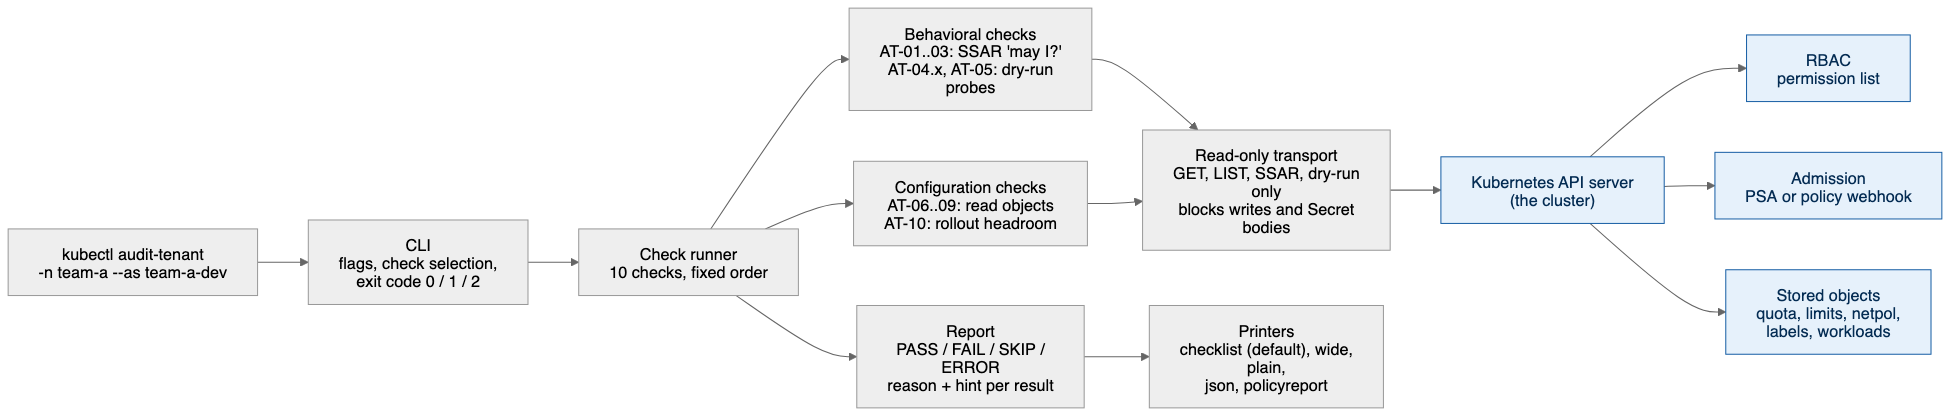
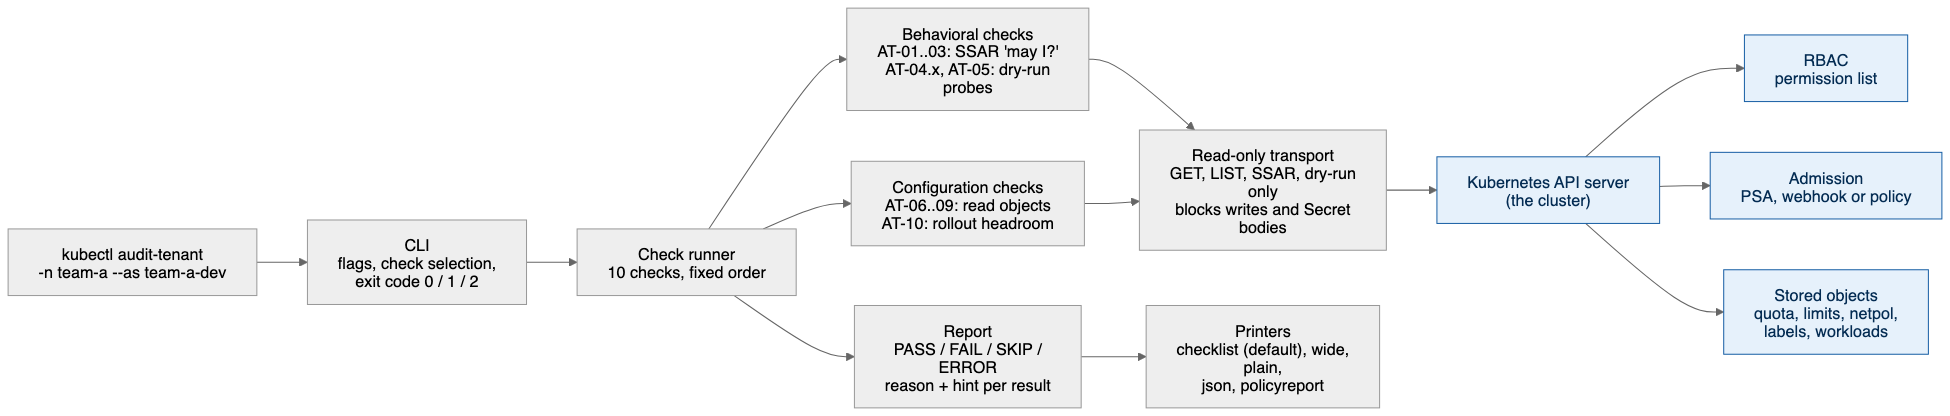
docs: changelog, diagram and glossary for v0.1.0 (B30)
CHANGELOG.md gets the v0.1.0 entry (its date is set at the tag). The
architecture diagram is re-rendered from its .mmd with gstack /diagram,
so the admission box reads "PSA, webhook or policy". The glossary's
deciding layer names the policy and quota gates. CITATION.cff already
held the paper DOI and passes the CFF 1.2.0 JSON Schema.

diff --git a/CHANGELOG.md b/CHANGELOG.md
@@ -1,0 +1,26 @@
+# Changelog
+
+All notable changes to this project are listed here. The format follows [Keep a Changelog](https://keepachangelog.com/en/1.1.0/), and the project uses [Semantic Versioning](https://semver.org/spec/v2.0.0.html).
+
+## [0.1.0] - Unreleased
+
+The first release.
+
+### Added
+
+- Ten tenant-governance checks that run as the tenant against one namespace and give fourteen results:
+  - AT-01 to AT-03: cluster-scoped access, Secret access in another namespace, and privilege escalation, asked with SelfSubjectAccessReviews.
+  - AT-04.1 to AT-04.5 and AT-05: privileged containers, hostPath volumes, hostPID, hostNetwork, privilege escalation and NodePort Services, sent as server-side dry runs after a compliant control probe.
+  - AT-06 to AT-09: a complete ResourceQuota, LimitRange defaults, default-deny NetworkPolicies and the Pod Security Admission label.
+  - AT-10: whether the quota covers the rollout peak of the Deployments and StatefulSets.
+- Self mode (the kubeconfig's identity) and impersonation (`--as`, `--as-group`), with warnings for impersonation flags that leave out groups.
+- Four verdicts (PASS, FAIL, SKIP, ERROR). Each result has the deciding layer, the MTB ID, a reason and a hint, and a note when part of the check was not tested.
+- Exit codes 0, 1 and 2, and `--fail-on-skip` for pipelines.
+- Output formats: checklist (default), `-o wide`, `--plain`, `-o json` with a JSON Schema (`docs/report.schema.json`), and `-o policyreport` (`wgpolicyk8s.io/v1alpha2`).
+- `--debug`: one line per API request and the identity steps on stderr, without request headers.
+- `--checks`, `--skip`, `--other-namespace` and `--timeout`.
+- The `list-checks` and `version` subcommands.
+- A read-only HTTP transport with an exact allowlist: the tool never writes to the cluster and never reads a Secret.
+- Binaries for Linux and macOS (amd64 and arm64) and Windows (amd64), with checksums and a krew manifest.
+
+[0.1.0]: https://github.com/BodhiSatvik/kubectl-audit-tenant/releases/tag/v0.1.0

diff --git a/_archive/TODOS-done.md b/_archive/TODOS-done.md
@@ -253,3 +253,11 @@ Checked against the code on `phase-6-docs` (from `1778b02`). One more item was m
 - [x] P1 /ship: `hack/check-public.sh` passes when `git ls-files` fails (not a checkout); make it fail closed (B29). Done in B29 (9152f69): the tree scan writes the file list first, so `set -e` stops outside a checkout; the self-test covers it.
 - [x] P2 /review: Pods a controller creates can pass under a PSA exemption that the tenant's own probes do not have; the README's "what a PASS does not prove" must say so (B29). Done in B29: "What a PASS does not prove" names it.
 - [x] P2 /review: The no-rights anchor (D80) passes for a misspelled `--as` user when a cluster grants `list pods` to `system:authenticated` (B25 identity warnings, D87). D141 warns for a user impersonated without `--as-group`; a misspelled service account, or a user with `--as-group`, gets no warning, so the README must say it (B29). Done in B29: "What a PASS does not prove" names it and tells the reader to check the header line.
+
+### Phase 6: docs and release
+
+- [x] **B30 Citation, changelog, diagrams.** `CITATION.cff` with the paper DOI; `CHANGELOG.md` v0.1.0 entry; re-render `docs/diagrams/architecture.{svg,png,excalidraw}` from the updated `.mmd` (admission label); GLOSSARY.md: deciding layer gains "policy".
+  - AC: CFF validates; SVG shows "PSA, webhook or policy".
+  - Verify: `cffconvert --validate` or GitHub's CFF check; visual check of the SVG.
+  - Depends on: none. Files: `CITATION.cff`, `CHANGELOG.md`, `docs/diagrams/*`, `GLOSSARY.md`.
+  - Done (2026-10-22): `CITATION.cff` passes the CFF 1.2.0 JSON Schema (0 errors); `CHANGELOG.md` has the v0.1.0 entry (date set at the tag); the diagram triplet is re-rendered with gstack `/diagram` and the SVG and PNG show "PSA, webhook or policy"; the GLOSSARY deciding layer names the policy and quota gates.

diff --git a/TODOS.md b/TODOS.md
@@ -13,10 +13,6 @@ Build list from the approved spec (`DESIGN.md`, approved after plan reviews 2026
   - Verify: fresh-machine run (Satvik or a clean VM); `make check-fast`.
   - Depends on: B21, B25. Files: `README.md`.
   - Status (2026-10-22): built on `phase-6-docs`. `hack/check-public.sh` and `make check-fast` pass. The quick start, run word for word on this Mac with a local build in place of the release, took 17 s (node image cached) and printed the verdicts the README shows. Open: the clean-machine run with a release install, after v0.1.0 exists (Satvik or a clean VM).
-- [ ] **B30 Citation, changelog, diagrams.** `CITATION.cff` with the paper DOI; `CHANGELOG.md` v0.1.0 entry; re-render `docs/diagrams/architecture.{svg,png,excalidraw}` from the updated `.mmd` (admission label); GLOSSARY.md: deciding layer gains "policy".
-  - AC: CFF validates; SVG shows "PSA, webhook or policy".
-  - Verify: `cffconvert --validate` or GitHub's CFF check; visual check of the SVG.
-  - Depends on: none. Files: `CITATION.cff`, `CHANGELOG.md`, `docs/diagrams/*`, `GLOSSARY.md`.
 - [ ] **B31 Pre-release gate (Satvik and agent).** `audit-tenant.dev` is registered (done 2026-10-11, D20); `../../scripts/clean-room-check.sh .` passes; CONSTRAINTS.md "Measured" values recorded; `make check-full` green on main; Satvik pushes and tags `v0.1.0`; release job publishes five archives, checksums and the krew manifest; Satvik opens the krew-index PR.
   - AC: acceptance criteria 1 to 11 in DESIGN.md section 12 all met; the release page shows the assets; `kubectl krew install --manifest-url` works from the release.
   - Verify: release workflow; manual install on macOS and Linux.

diff --git a/GLOSSARY.md b/GLOSSARY.md
@@ -83,7 +83,7 @@ The one-line advice attached to every FAIL, SKIP or ERROR that tells the reader 
 _Avoid_: Remediation, fix, suggestion
 
 **Deciding layer**:
-The part of the cluster that produced a verdict: RBAC (the permission list), admission (a gatekeeper such as Pod Security Admission or a policy engine), the API server's own validation (`--allow-privileged=false` refuses every privileged container), or configuration (an object the tool read).
+The part of the cluster that produced a verdict: RBAC (the permission list), admission (a gatekeeper: Pod Security Admission, a webhook such as a policy engine's, a ValidatingAdmissionPolicy, shown as "policy", or a ResourceQuota), the API server's own validation (`--allow-privileged=false` refuses every privileged container), or configuration (an object the tool read).
 _Avoid_: Source, enforcer, mechanism
 
 **Reason**:

diff --git a/tasks/plan.md b/tasks/plan.md
@@ -69,7 +69,7 @@ Build the read-only kubectl plugin specified in `DESIGN.md` (approved after plan
 
 ### Phase 6: docs and release
 - [ ] B29 README
-- [ ] B30 Citation, changelog, diagrams
+- [x] B30 Citation, changelog, diagrams
 - [ ] B31 Pre-release gate and v0.1.0 tag (Satvik pushes, tags and opens the krew-index PR)
 
 ### Checkpoint 6: complete
